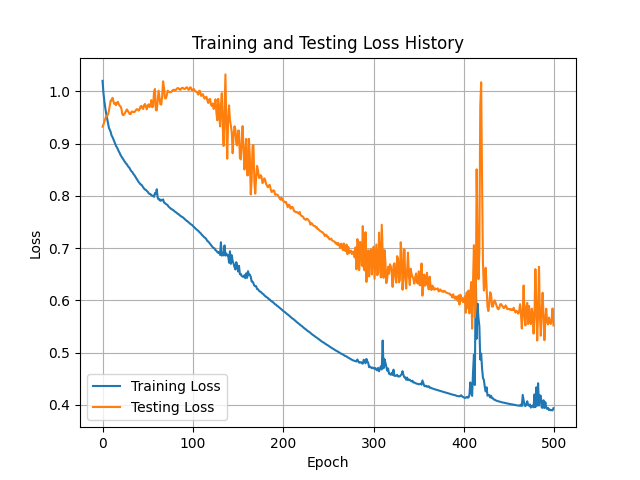
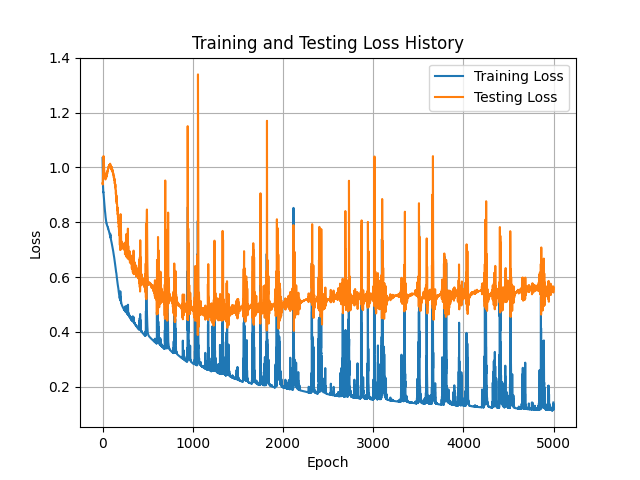
switched order of output to be more like it was, and it looks a lot better now. the model is looking great, going to train for 10k epochs now to get it even better. It inferred onto radius of .4 meters and .75 meters pretty well.

diff --git a/main.py b/main.py
@@ -3,6 +3,7 @@ from model import FusionDeepONet
 from dataloader import get_dataloader
 from trainer import Trainer
 import matplotlib.pyplot as plt
+from matplotlib import cm
 from preprocess import Preprocess
 import os
 from inference import load_model, load_stats, predict, load_csv_input, save_to_csv, save_to_vtk
@@ -12,7 +13,7 @@ def main():
     # === Configuration ===
     npz_path = "processed_data.npz"
     batch_size = 1
-    num_epochs = 500
+    num_epochs = 5000
     output_dim = 5  # u,v,w,rho, and p (not in that order)
     device = "cuda" if torch.cuda.is_available() else "cpu"
 
@@ -49,19 +50,19 @@ def radius_file_dict():
         }
 
 if __name__ == "__main__":
-    preprocess = Preprocess(radius_files=radius_file_dict(), output_path="processed_data.npz")
-    preprocess.run_all()
-    loss_history, test_loss_history = main()
+    # preprocess = Preprocess(radius_files=radius_file_dict(), output_path="processed_data.npz")
+    # preprocess.run_all()
+    # loss_history, test_loss_history = main()
 
-    plt.plot(loss_history, label='Training Loss')
-    plt.plot(test_loss_history, label='Testing Loss')
-    plt.xlabel("Epoch")
-    plt.ylabel("Loss")
-    plt.title("Training and Testing Loss History")
-    plt.legend()
-    plt.grid(True)
-    plt.savefig("loss_history.png")
-    plt.show()
+    # plt.plot(loss_history, label='Training Loss')
+    # plt.plot(test_loss_history, label='Testing Loss')
+    # plt.xlabel("Epoch")
+    # plt.ylabel("Loss")
+    # plt.title("Training and Testing Loss History")
+    # plt.legend()
+    # plt.grid(True)
+    # plt.savefig("loss_history.png")
+    # plt.show()
 
 
     # Load model and stats
@@ -70,7 +71,7 @@ if __name__ == "__main__":
     stats = load_stats("processed_data.npz")
 
     # Prepare input
-    coords_np, radius_val = load_csv_input("sphere_data_075.csv")
+    coords_np, radius_val = load_csv_input("sphere_data_04.csv")
 
     # Predict
     output = predict(coords_np, radius_val, model, stats, device)
@@ -84,5 +85,5 @@ if __name__ == "__main__":
     save_to_vtk(coords_np, output, out_path="predicted_output.vtk")
 
     plotter = pv.Plotter()
-    plotter.add_mesh(pv.read("predicted_output.vtk"), scalars="velocity", point_size=5, render_points_as_spheres=True)
+    plotter.add_mesh(pv.read("predicted_output.vtk"), scalars="velocity",cmap=cm.get_cmap("jet"), point_size=5, render_points_as_spheres=True)
     plotter.show()

diff --git a/inference.py b/inference.py
@@ -83,9 +83,9 @@ def save_to_vtk(coords_np, output_np, out_path="predicted_output.vtk"):
     cloud = pv.PolyData(coords_np)
 
     # Add vector and scalar fields
-    cloud["velocity"] = output_np[:, :3]                   # u, v, w
-    cloud["pressure"] = output_np[:, 3]                    # pressure
-    cloud["density"] = output_np[:, 4]                     # density
+    cloud["velocity"] = output_np[:, 1:4]                   # u, v, w
+    cloud["pressure"] = output_np[:, 4]                    # pressure
+    cloud["density"] = output_np[:, 0]                     # density
 
     # Save to VTK
     cloud.save(out_path)
